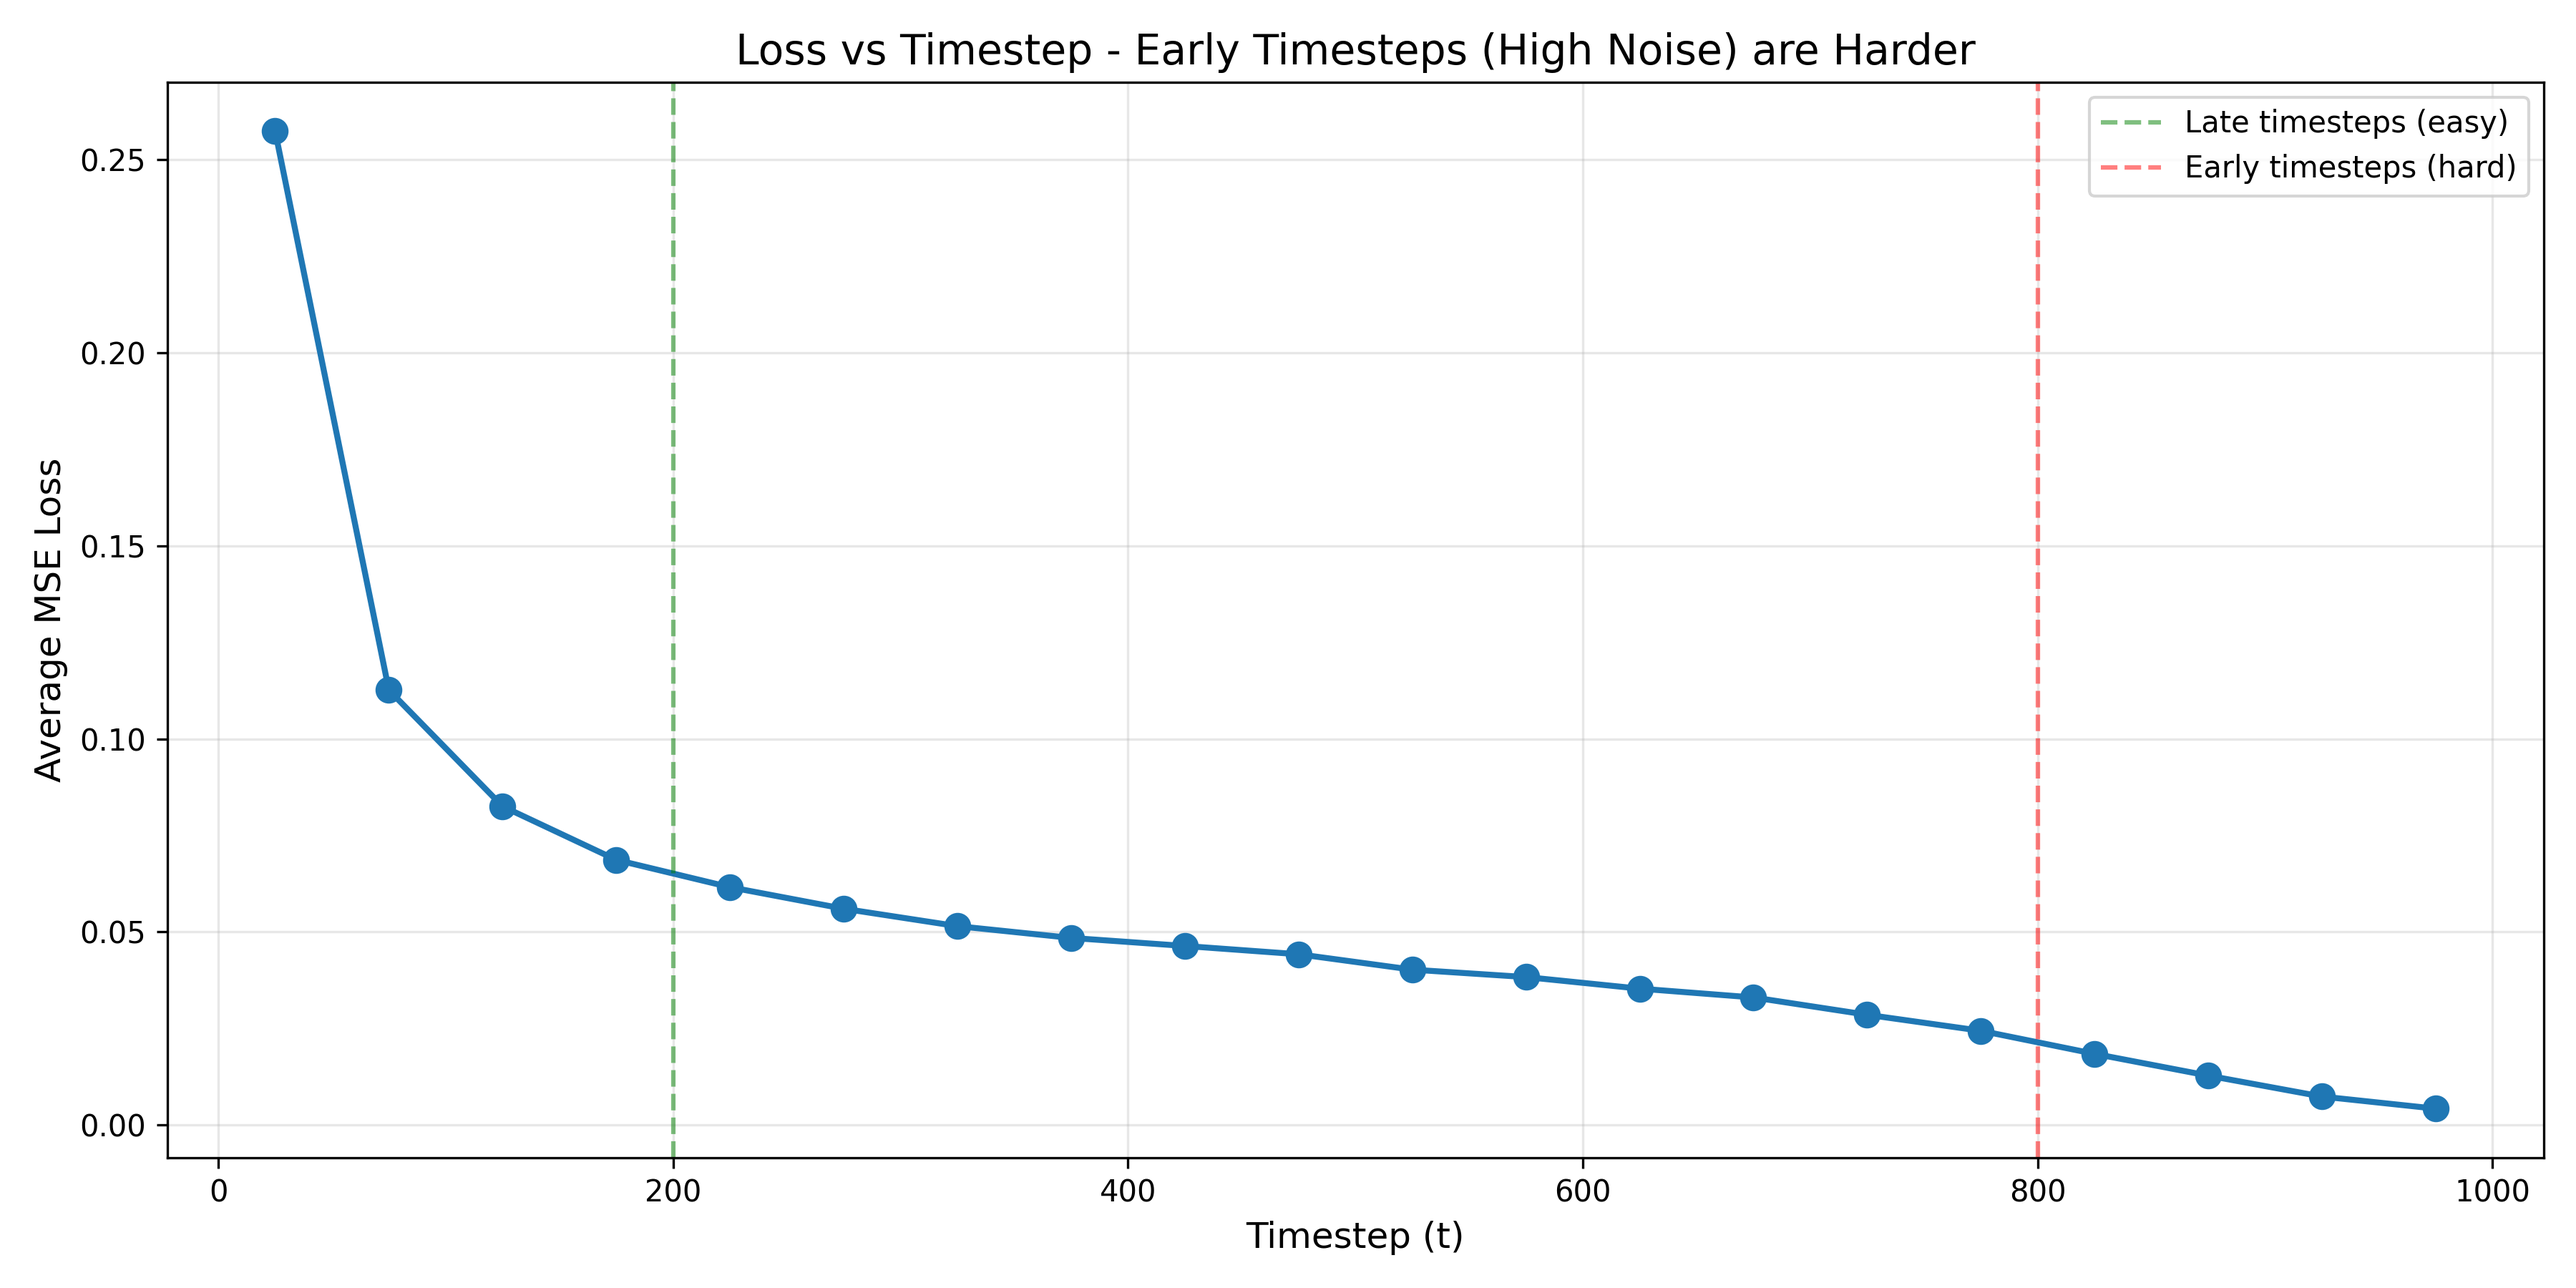
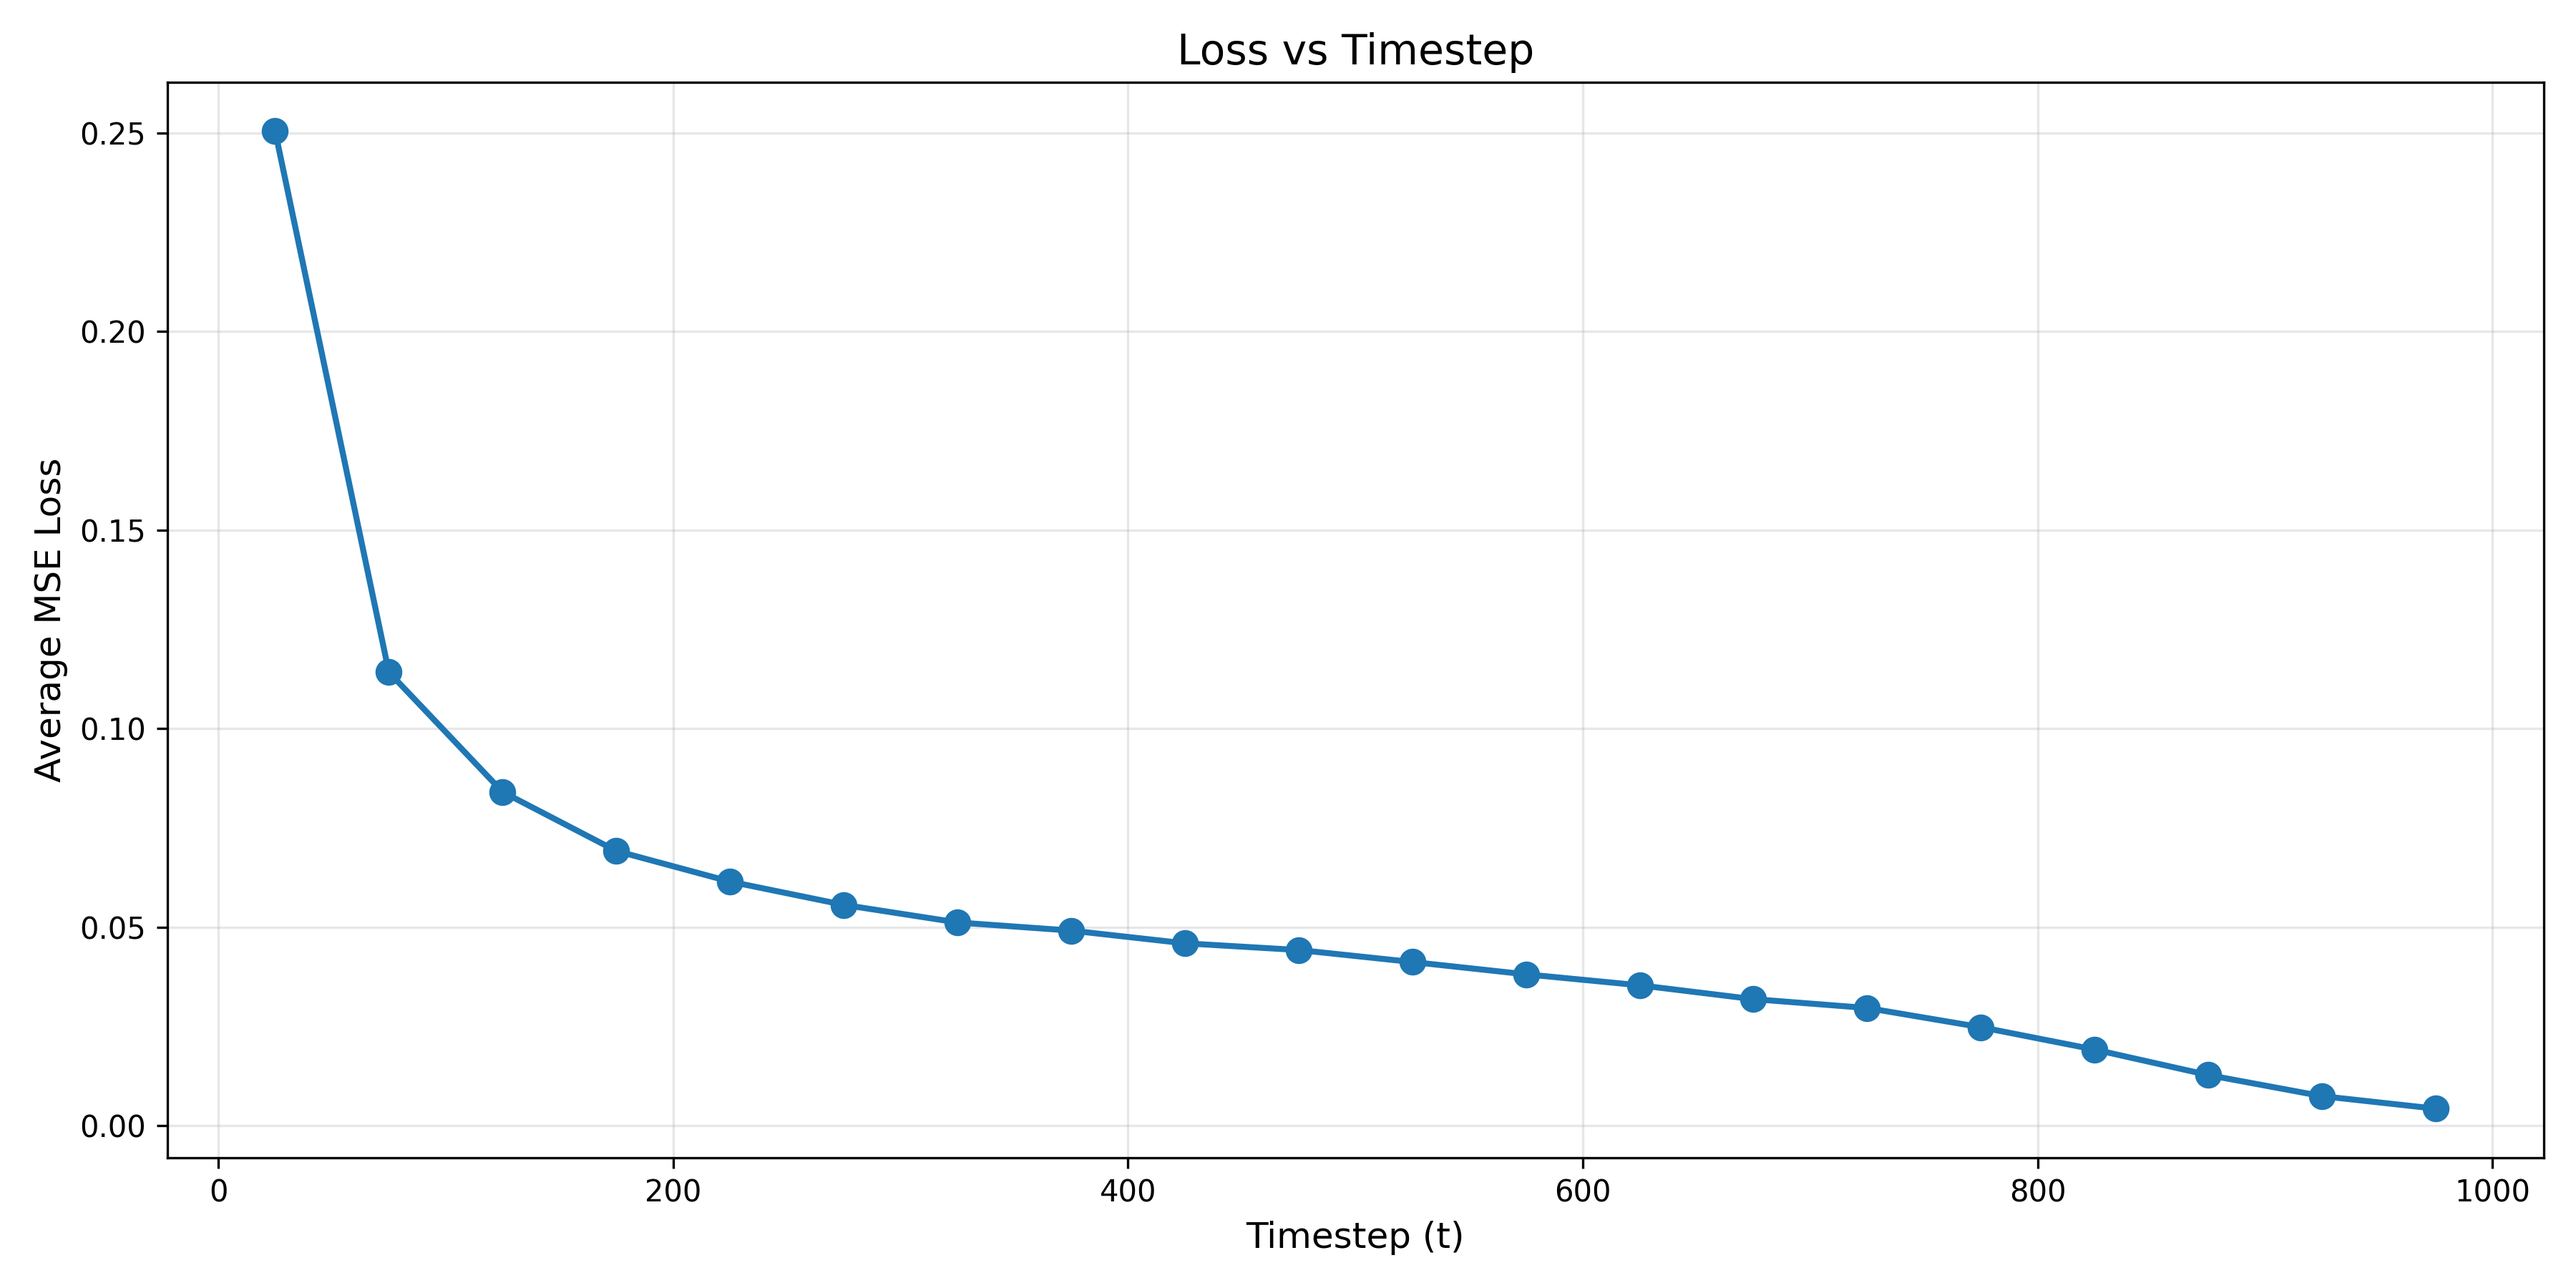
update

diff --git a/analyze_loss_pert.py b/analyze_loss_pert.py
@@ -95,13 +95,8 @@ def analyze_loss_per_timestep(model_path, device='cpu', num_bins=10):
     plt.plot(bin_centers, avg_bin_losses, marker='o', linewidth=2, markersize=8)
     plt.xlabel('Timestep (t)', fontsize=12)
     plt.ylabel('Average MSE Loss', fontsize=12)
-    plt.title('Loss vs Timestep - Early Timesteps (High Noise) are Harder', fontsize=14)
+    plt.title('Loss vs Timestep', fontsize=14)
     plt.grid(True, alpha=0.3)
-    
-    # Add annotations
-    plt.axvline(x=200, color='green', linestyle='--', alpha=0.5, label='Late timesteps (easy)')
-    plt.axvline(x=800, color='red', linestyle='--', alpha=0.5, label='Early timesteps (hard)')
-    plt.legend()
     
     plt.tight_layout()
     plt.savefig('./loss_per_timestep.png', dpi=300)
@@ -121,7 +116,7 @@ if __name__ == "__main__":
     print(f"Using device: {device}\n")
     
     # Analyze best model (linear 4-layer)
-    MODEL_PATH = "./model/ddpm_mnist_4layer_linear.pth"
+    MODEL_PATH = "./model/ddpm_mnist_4layer_cosine.pth"
     
     timesteps, losses = analyze_loss_per_timestep(
         model_path=MODEL_PATH,
